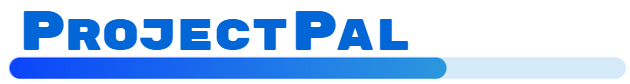
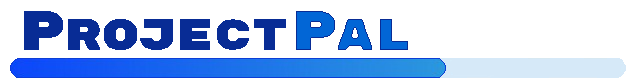
Cameron/feature javacript (#13)
* Add object function and class selectors

* test commit

* Add local storage functions

* Add functions to render tasks on page load, and when submit button is pressed

* Add comments to explain code

* Fixed changed id's

* Add new dark-mode logo img, update logic.js to change logo based on light/dark mode

* Create Clear All button, fix header with logo and dark button

Changed region(s): [[0.0302, 0.119, 0.6635, 0.5952], [0.0, 0.6667, 0.9952, 0.9524], [0.5127, 0.1429, 0.573, 0.2381]]

diff --git a/index.html b/index.html
@@ -14,8 +14,8 @@
   </head>
 
   <body>
-    <header>
-      <h1 class="title">ProjectPal</h1>
+    <header class="header">
+      <img id="mode-img-toggle" src="./assets/images/projectpalheader.png">
       <button id="mode-toggle">☀</button>
     </header>
 
@@ -23,19 +23,20 @@
 
     <div class="container-left">
         
-      <input class="input is-info" id="form-title" placeholder="Title"></input>
+      <input class="input" id="form-title" placeholder="Title"></input>
 
-      <textarea class="textarea has-fixed-size is-info" id="form-description" placeholder="Description"></textarea>
+      <textarea class="textarea has-fixed-size" id="form-description" placeholder="Description"></textarea>
 
-      <input class="input is-info" id="form-duedate" type="date" placeholder="Due Date"></input>
+      <input class="input" id="form-duedate" type="date" placeholder="Due Date"></input>
 
-      <select class="input is-info" name="priority" id="form-priority">
-        <option value="HIGH">High</option>
-        <option value="MEDIUM">Medium</option>
-        <option value="LOW">Low</option>
+      <select class="input" name="priority" id="form-priority">
+        <option value="high">High</option>
+        <option value="medium">Medium</option>
+        <option value="low">Low</option>
       </select>
 
-      <button class="button is-info" type="submit" id="submit">Submit</button>
+      <button class="button" type="submit" id="submit">Submit</button>
+      <button class="button" type="submit" id="clearBtn">Clear All</button>
     </div>
 
     <div class="container-right">

diff --git a/assets/logic.js b/assets/logic.js
@@ -1,5 +1,6 @@
 document.addEventListener('DOMContentLoaded', () => {
     const toggleButton = document.getElementById('mode-toggle');
+    const logoImg = document.getElementById('mode-img-toggle');
 
     const updateToggleButtonIcon = () => {
         if(document.body.classList.contains('dark-mode')) {
@@ -9,14 +10,26 @@ document.addEventListener('DOMContentLoaded', () => {
         }
     };
 
+    const toggleLogoImg = () => {
+        if(document.body.classList.contains('dark-mode')) {
+            logoImg.src = "./assets/images/projectpalheader-dark.png";
+        } else {
+            logoImg.src = "./assets/images/projectpalheader.png";
+        }
+    }
+
+    
+
     if (localStorage.getItem('dark-mode') === 'enabled') {
         document.body.classList.add('dark-mode');
         updateToggleButtonIcon();
+        toggleLogoImg();
     }
 
     toggleButton.addEventListener('click', () => {
         document.body.classList.toggle('dark-mode');
         updateToggleButtonIcon();
+        toggleLogoImg();
 
         if (document.body.classList.contains('dark-mode')) {
             localStorage.setItem('dark-mode', 'enabled');

diff --git a/assets/script.js b/assets/script.js
@@ -7,6 +7,7 @@ const formPriority = document.querySelector("#form-priority");
 
 // Global Variables
 
+let projects = [];
 let storedTaskCards = [];
 
 // Initialization Function
@@ -16,6 +17,22 @@ updateCardStorage();
 // Submit button
 const submit = document.getElementById("submit");
 submit.addEventListener("click", addArticle);
+
+const clear = document.getElementById("clearBtn");
+clearBtn.addEventListener("click", clearProject);
+
+
+function clearProject() {
+  if (storedTaskCards !== null) {
+    storedTaskCards = [];
+    setLocalStorageObj("Task Cards", storedTaskCards)
+    window.location.reload();
+  } else {
+    return;
+  }
+
+}
+
 
 // Creates a new task object with Title, Description, Due-Date and Priority.
 // Adds the object to storage and calls a function to create the new task.
@@ -108,6 +125,7 @@ function updateCardStorage() {
     return;
   }
 }
+
 
 // Local Storage Functions for Getting and Setting.
 

diff --git a/assets/styles.css b/assets/styles.css
@@ -29,9 +29,7 @@ body.dark-mode {
 }
 
 header {
-  width: auto;
-  height: 145px;
-  text-align: right;
+  height: 175px;
   padding: 50px;
 }
 
@@ -41,6 +39,11 @@ main {
   flex-wrap: wrap;
   align-content: center;
   margin-top: 10px;
+}
+
+.header {
+  display: flex;
+  justify-content: space-between;
 }
 
 .container-left {
